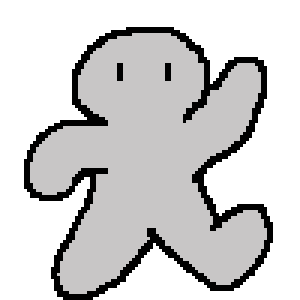
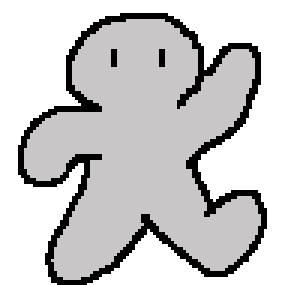
sprites updated
- blob hitbox
- cactus sprite updated
- poke enemy added

diff --git a/obstacle.js b/obstacle.js
@@ -2,7 +2,7 @@ import { getCustomProperty, incrementCustomProperty, setCustomProperty } from ".
 
 // make obstacle and floor speed equal
 const SPEED = 0.05;
-const OBSTACLE_INTERVAL_MIN = 750;
+const OBSTACLE_INTERVAL_MIN = 800;
 const OBSTACLE_INTERVAL_MAX = 2200;
 
 const container = document.querySelector('[data-container]');
@@ -55,11 +55,17 @@ function createObstacle() {
 
     /* randomly generate obstacle */
     var randomNum = Math.floor(Math.random() * 10);
-    if (randomNum == 0) {
-        obstacle.src = "./images/cactus_2.png";
+    if (randomNum <= 2) {
+        obstacle.src = "./images/poke_1.png";
+    }
+    else if (randomNum == 3) {
+        obstacle.src = "./images/poke_2.png";
+    }
+    else if (randomNum == 4) {
+        obstacle.src = "./images/cactus_1.png";
     }
     else {
-        obstacle.src = "./images/cactus_1.png";
+        obstacle.src = "./images/cactus_2.png";
     }
     
     obstacle.classList.add("obstacle");

diff --git a/script.js b/script.js
@@ -123,11 +123,11 @@ function handleLose() {
     // set Game Over Screen + set High Score
     if (currHighScore == null) {
         currHighScore = Math.ceil(currScore);
-        highScore.innerHTML = `High Score: ${currHighScore}`
+        highScore.innerHTML = `High Score: ${currHighScore - 1}`
     }
     if (currScore > currHighScore) {
         currHighScore = Math.ceil(currScore);
-        highScore.innerHTML = `High Score: ${currHighScore}`;
+        highScore.innerHTML = `High Score: ${currHighScore - 1}`;
     }
 
     message1.innerHTML = "Game Over";

diff --git a/index.html b/index.html
@@ -16,7 +16,7 @@
         <div class="message-screen" data-message-screen>
             <div class="message1"></div>
             <div class="message2"></div>
-        </div> 
+        </div>
         <img class="floor" data-floor>
         <img class="floor" data-floor>
         <img class="player" data-player>
